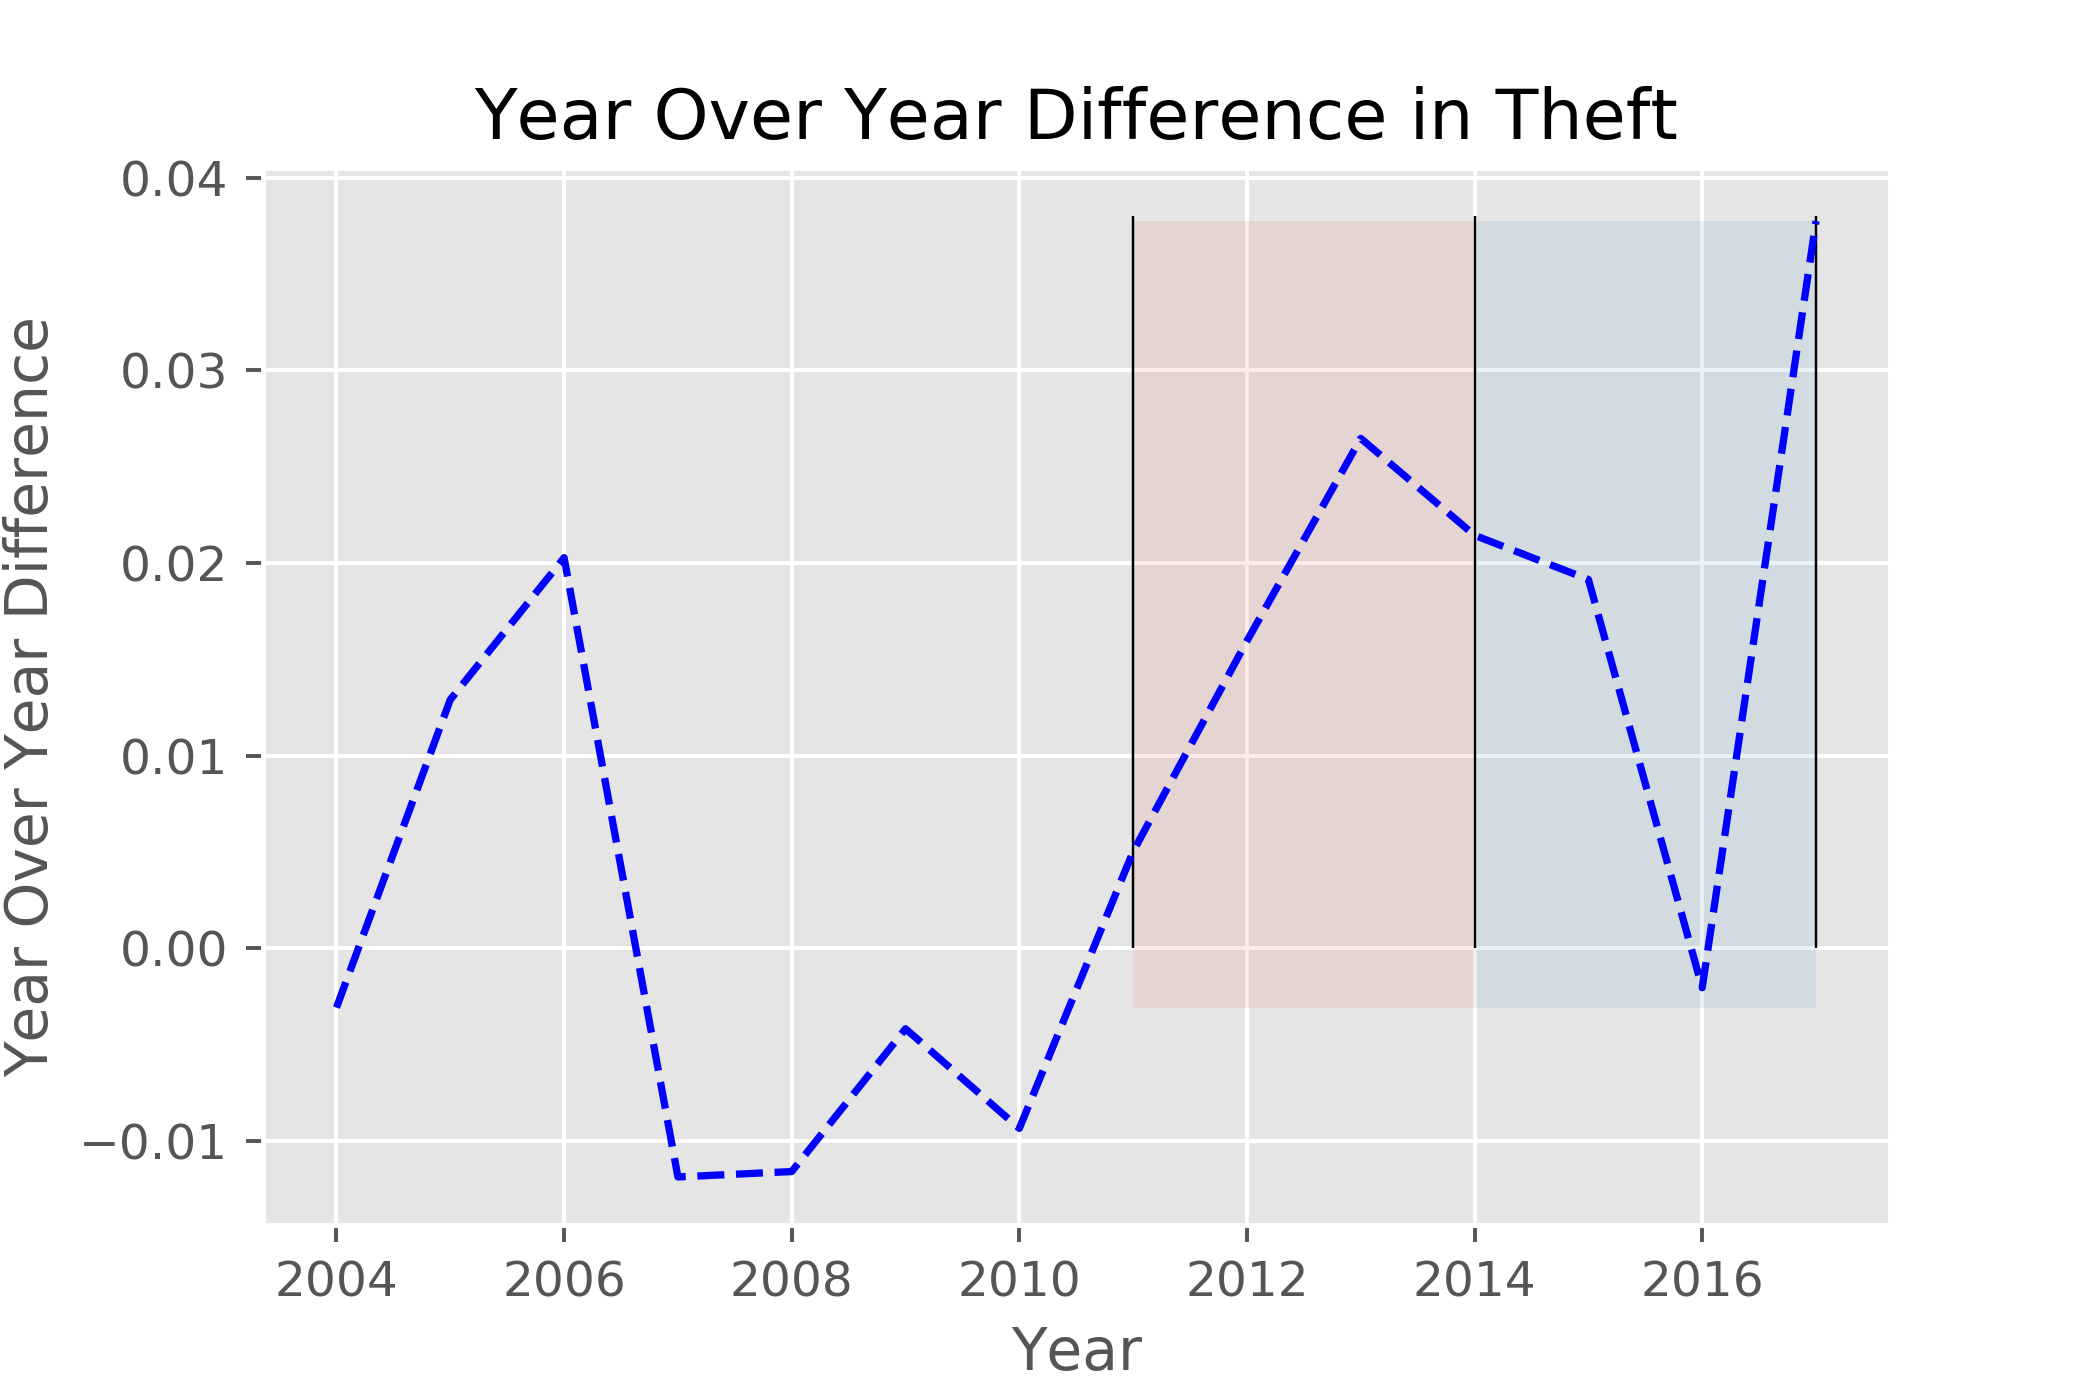
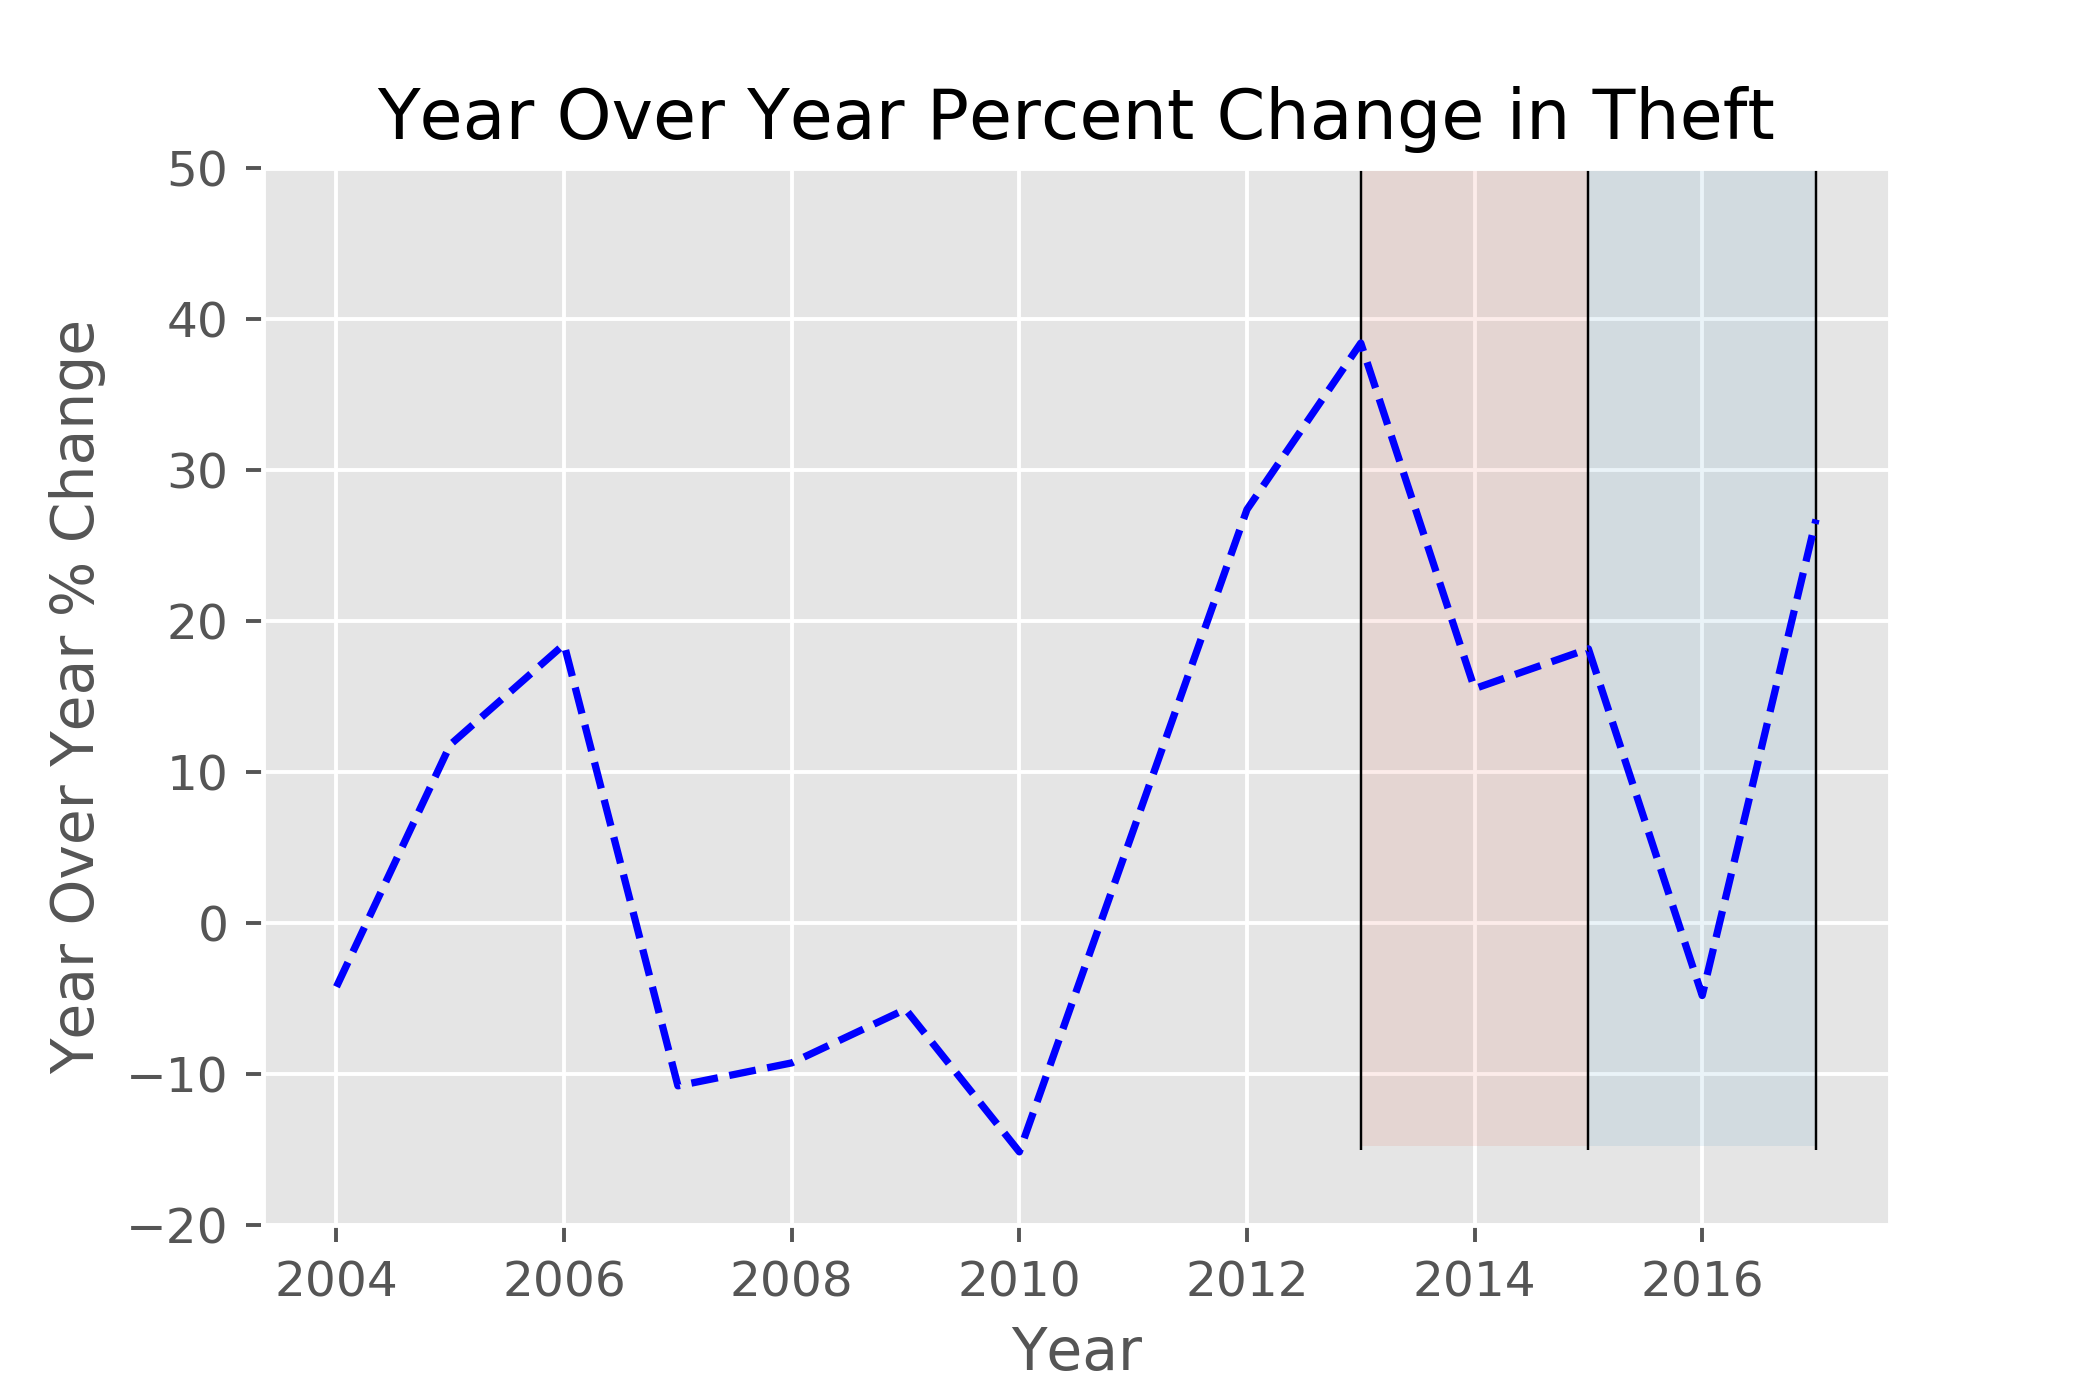
updated again

diff --git a/README.md b/README.md
@@ -16,7 +16,7 @@ I initially set out to find whether or not the level of theft from car break-ins
 
 <b>Overview of the dataset</b>
 - Over 2 million entries spanning 2003-2017
-- 33 columns, including Category, Description, Address, and X & Y GPS coordinates
+- 33 columns, including Category, Description, Address, Police District, and X & Y GPS coordinates
 - Specific descriptions for theft from vehicles
     
     
@@ -25,7 +25,7 @@ I initially set out to find whether or not the level of theft from car break-ins
 
 Due to the size of the dataset, I initially started out using spark via a docker container. Using spark allowed quick exploration of the data and let me figure out which columns were extranneous. I also included some SQL queries when probing which descriptions are considered "violent" vs "non-violent" crime by using the LIKE command. I never knew there were so many kinds of assault.
 
-Ultimately I eliminated 17 columns and partitioned the data out by year. The data could then be read into pandas dataframes, which I find more comfortable to use for detailed analysis and plotting. 
+Ultimately I eliminated 20 columns and partitioned the data out by year. The data could then be read into pandas dataframes, which I find more comfortable to use for detailed analysis and plotting. 
 
 <b>General Process Flow:</b>
 
@@ -44,10 +44,10 @@ Plotting the number of reports over time. Note that the overlay is the neighborh
 
 ## General Crime Statistics
    
-The top 10 crimes as classified by category using tree mapping:
+The top 10 crimes as classified by Category using tree mapping:
     ![alttext](data/images/crimetreecat.png)
     
-The top 10 crimes as classified by description using tree mapping:
+The top 10 crimes as classified by Description using tree mapping:
     ![alttext](data/images/crimetreedesc.png)
     
     
@@ -84,8 +84,8 @@ While the incidence of car break-ins does increase after 2014, clearly the trend
 <img src="data/images/year-over-year.png" alt="Drawing" style="width: 500px;" align="center"/>
 
 
-- Average year-over-year difference 2011 - 2014: 0.017 or 1.7% increase
-- Average year-over-year difference 2014 - 2017: 0.019 or 1.9% increase
+- Average year-over-year difference 2012 - 2014: 27% increase
+- Average year-over-year difference 2015 - 2017: 13.3% increase
 
 
 <b>My hypothesis is incorrect-ish.</b> While car thefts are increasing after 2014, there is no marked difference in the 3 years prior to 2014 and the 3 years after 2014. This was roughly calculated by averaging the year over year difference from 2011-2014 and from 2014-2017. Major contributing factors, such as the economic climate, make drawing a conclusion about the ramifications of Prop 47 difficult. 
@@ -98,11 +98,11 @@ Since the previous results showed no effect, I wanted to look at how the economi
 
 <img src="data/images/car_vs_income.png" alt="Drawing" style="width: 500px;" align="center"/>
 
-Using the stats.pearsonr() method to look at the correlation coefficient and p-value between the two datasets:
-- Correlation coefficient 0.86
-- P-value of 0.0003
+I used the stats.spearmanr() method to look at the correlation coefficient and p-value between the two datasets. Note that Pearson's method requires the two datasets to be normally distributed, which is why I used the <a href="https://docs.scipy.org/doc/scipy-0.14.0/reference/generated/scipy.stats.spearmanr.html">Spearman's correlation</a>. 
+- Correlation coefficient 0.76
+- P-value of 0.0045
 
-The correlation coefficient is positive and close to one, indicating a strong positive relationship between the two datasets. The p-value is extrememly low; the probability of seeing this relationship given there is no correlation is 0.03% and we can conclude that there is a relationship between thefts from vehicles and median income. 
+The correlation coefficient is positive and in the upper quartile, indicating a medium positive relationship between the two datasets. The p-value is low; the probability of seeing this relationship given there is no correlation is 0.45% and we can conclude that there is a relationship between thefts from vehicles and median income at a significance level of 0.05. 
 
 
 ## Digging Deeper: Nothing happens at 4am
@@ -191,8 +191,5 @@ San Francisco Geographical Information: https://data.sfgov.org/Geographic-Locati
 Income Information: https://www.deptofnumbers.com/income/california/san-francisco/
 
 https://sfgov.org/sfplanningarchive/sites/default/files/FileCenter/Documents/8779-SFProfilesByNeighborhood_2010May.pdf
-
-   
-
 
    
